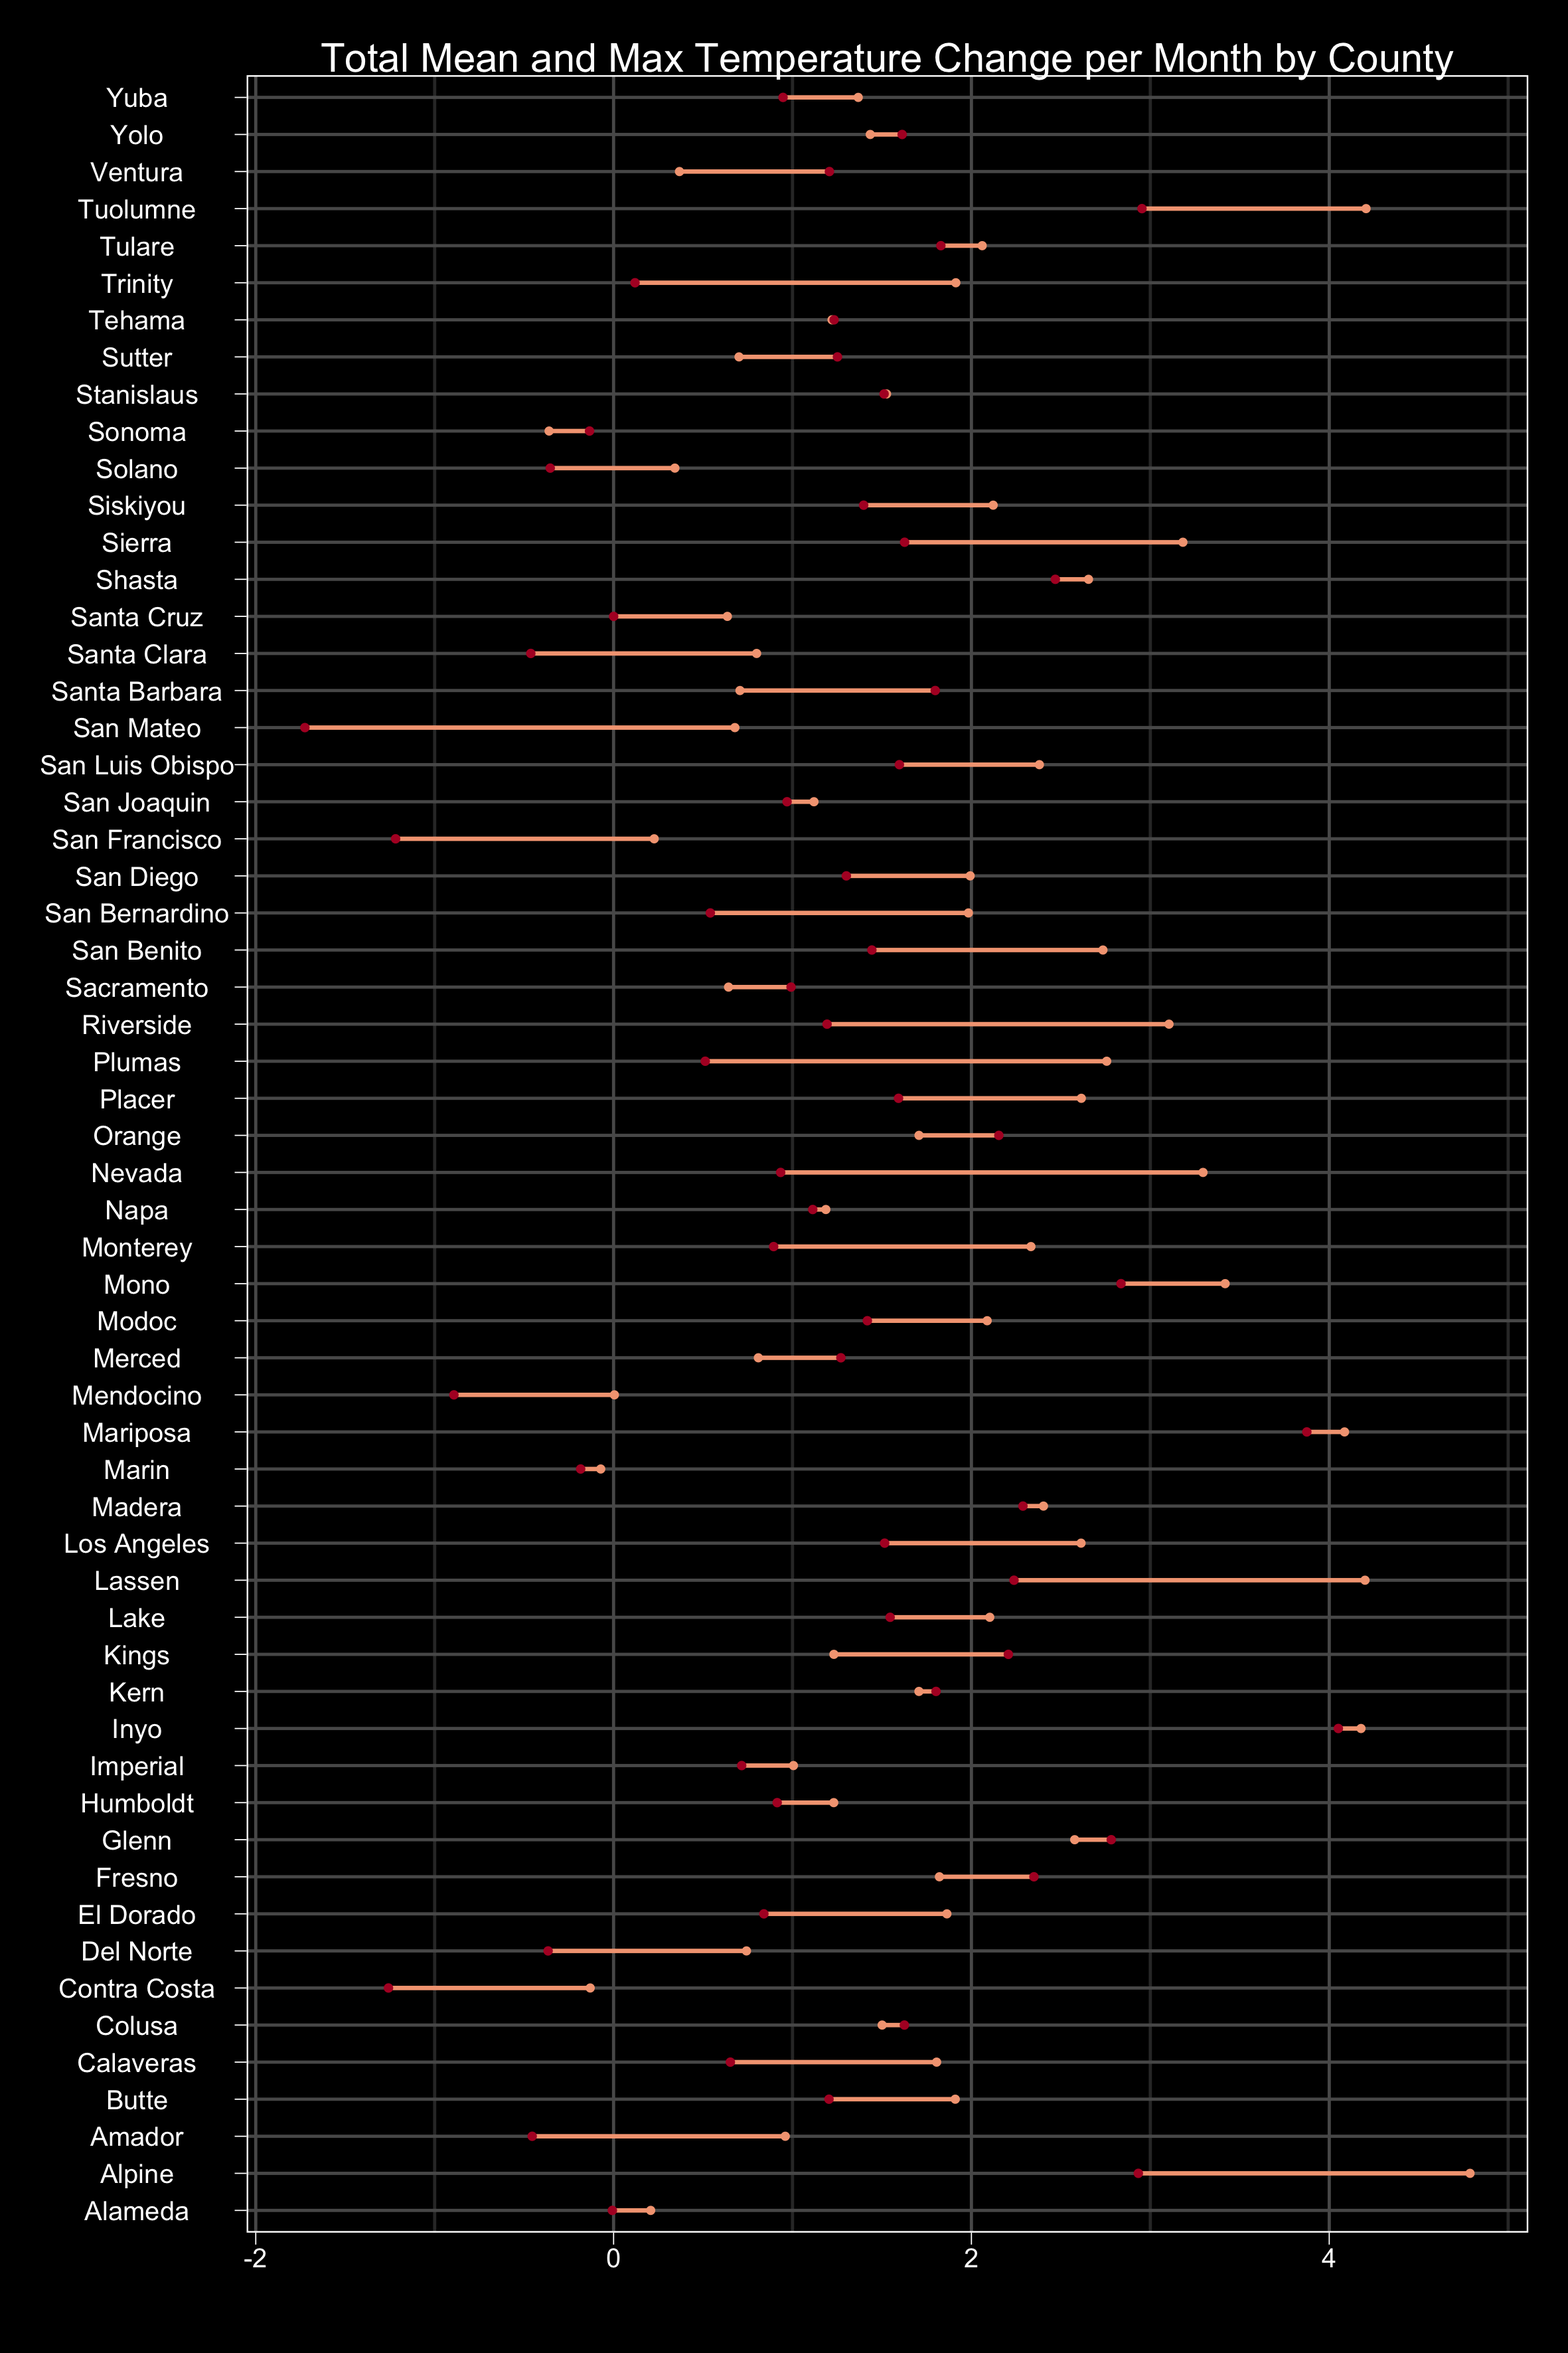
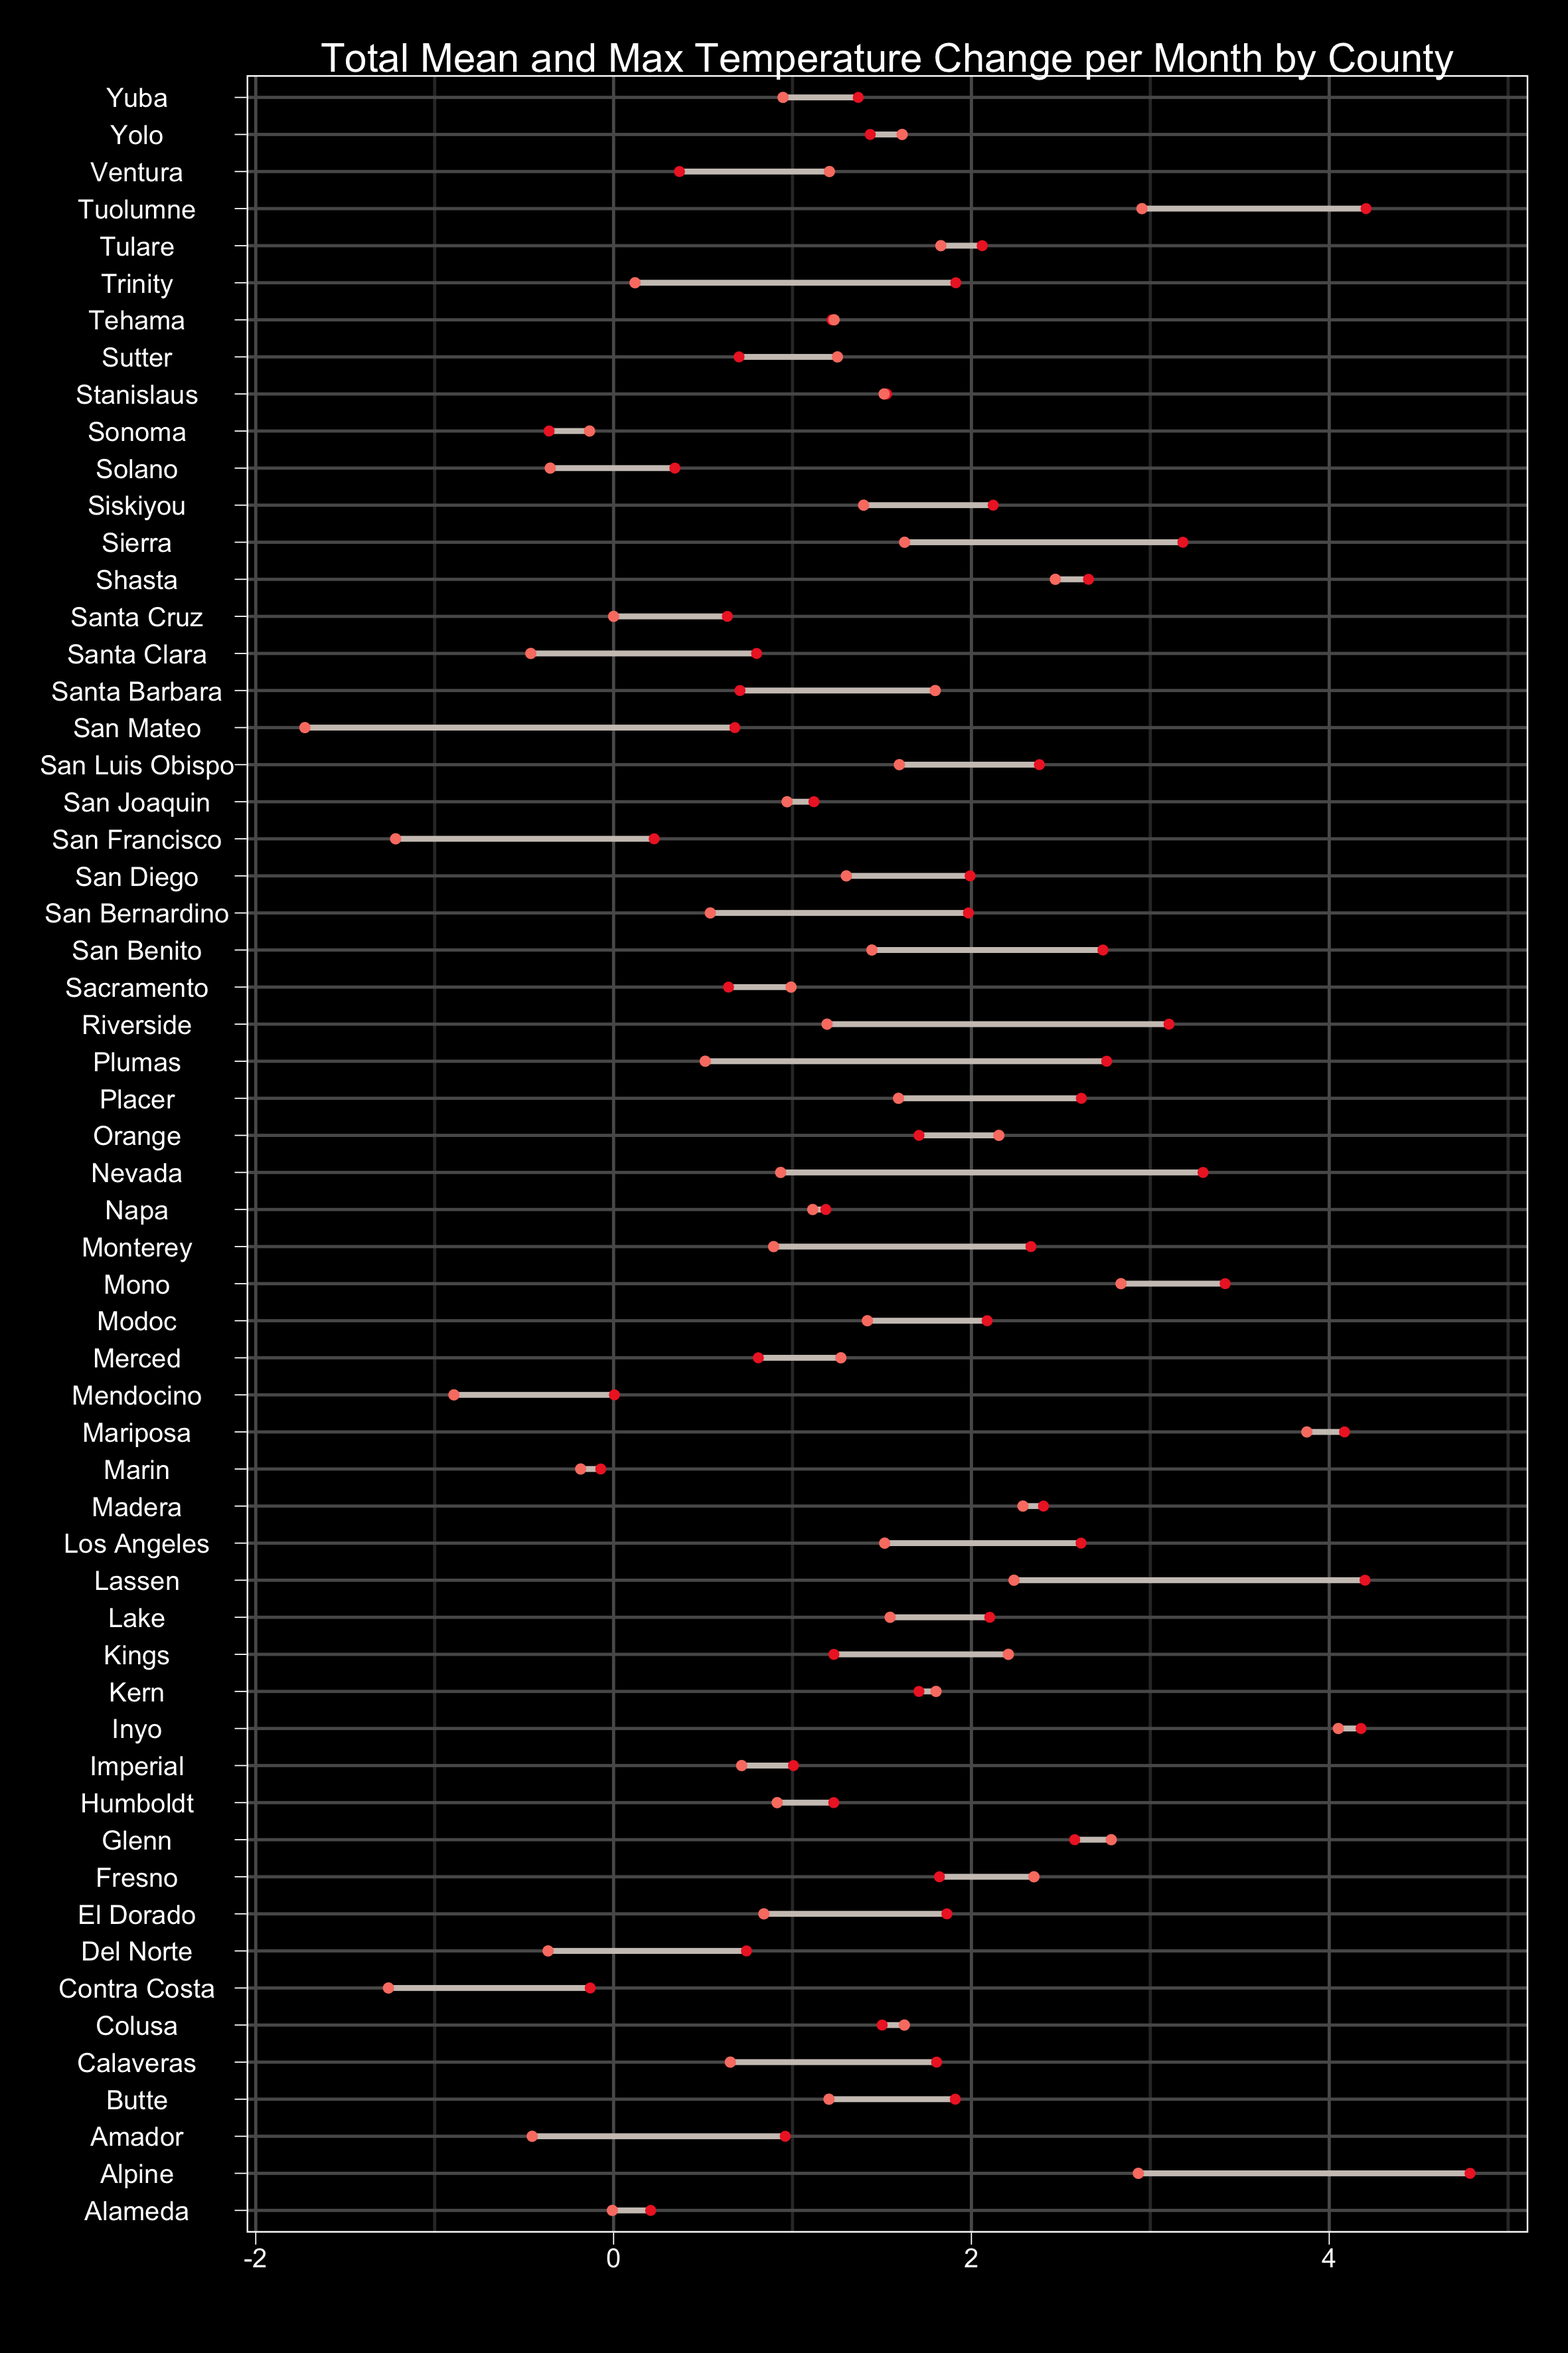
fix color on dumbell chart and add explanatory text

diff --git a/index.html b/index.html
@@ -106,10 +106,15 @@
         <p> The interactive map shows how some counties, like Inyo have seen over 4 degree average temperature changes in this time period, other counties like Sonoma have seen a small decrease in average temperature. </p>
 
         <h2 id= "firstheadline"> Showing Mean and Max Monthly Temperature Changes a Different Way... </h2>
-        <img id="maxmean" src="./final_analysis/rgraphs/maxmeancompare.png" alt="Average temperature change in California across time period"> 
 
-        <!-- <iframe id="datawrapper-chart-Uqt2r" src="//datawrapper.dwcdn.net/Uqt2r/2/" scrolling="no" frameborder="0" style="width: 0; background-color: black; min-width: 100% !important;" height="1444"></iframe><script type="text/javascript">if("undefined"==typeof window.datawrapper)window.datawrapper={};window.datawrapper["Uqt2r"]={},window.datawrapper["Uqt2r"].iframe=document.getElementById("datawrapper-chart-Uqt2r"),window.addEventListener("message",function(a){if("undefined"!=typeof a.data["datawrapper-height"])for(var b in a.data["datawrapper-height"])if("Uqt2r"==b)window.datawrapper["Uqt2r"].iframe.style.height=a.data["datawrapper-height"][b]+"px"});</script>
- -->
+      
+        <img id="maxmean" src="./final_analysis/rgraphs/maxmeancompare2.png" alt="Average temperature change in California across time period">
+        <p> The pink points indicate the change for the mean temperature in Fahrenheit over the time period while the darker red indicates the total change to max temperatures in every month over the time period </p> 
+
+
+
+      <!--   <iframe id="datawrapper-chart-Uqt2r" src="//datawrapper.dwcdn.net/Uqt2r/2/" scrolling="no" frameborder="0" style="width: 0; background-color: lightgrey; min-width: 100% !important;" height="1444"></iframe><script type="text/javascript">if("undefined"==typeof window.datawrapper)window.datawrapper={};window.datawrapper["Uqt2r"]={},window.datawrapper["Uqt2r"].iframe=document.getElementById("datawrapper-chart-Uqt2r"),window.addEventListener("message",function(a){if("undefined"!=typeof a.data["datawrapper-height"])for(var b in a.data["datawrapper-height"])if("Uqt2r"==b)window.datawrapper["Uqt2r"].iframe.style.height=a.data["datawrapper-height"][b]+"px"});</script> -->
+
 
         <div> </div>
         <p> This visual shows even more clearly how different counties have experience different levels of temperature changes. Climate change research indicates that extreme temperatures (very hot days) will become more common as well as the mean temperature increasing. This graphic shows that the hottest day per month for different counties also got hotter on average across the time period, but this shift was not in perfect lockstep with the shift in the mean temperature. Other visuals can help us make sense of this finding. </p>

diff --git a/css/full-width-pics.css b/css/full-width-pics.css
@@ -129,3 +129,10 @@ div.spacer
   padding: 5px;
 }
 
+.rotate90 {
+    -webkit-transform: rotate(90deg);
+    -moz-transform: rotate(90deg);
+    -o-transform: rotate(90deg);
+    -ms-transform: rotate(90deg);
+    transform: rotate(90deg);
+}
